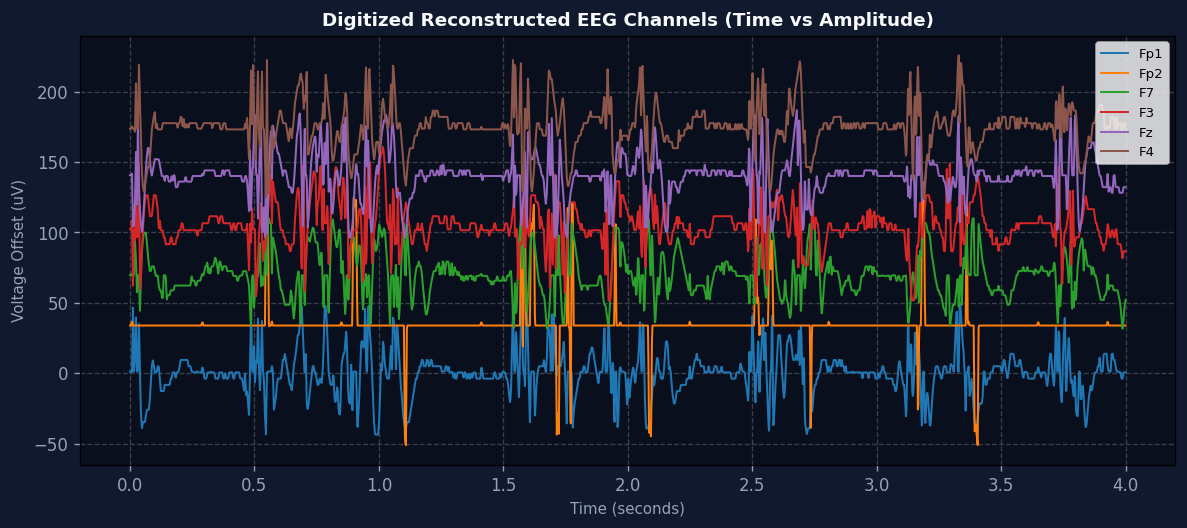
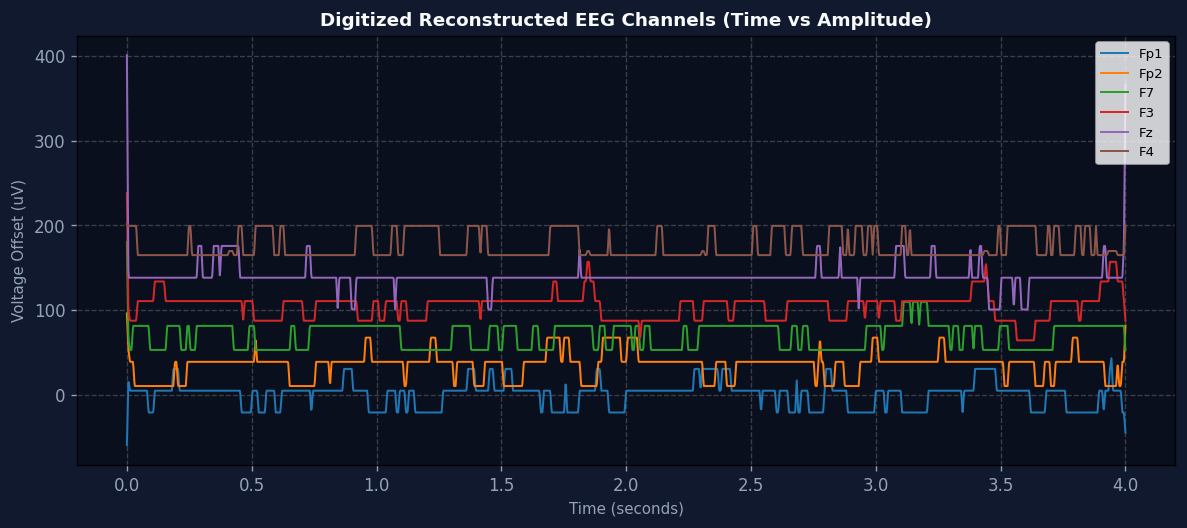
Move Register New Doctor feature into Admin Dashboard with Admin password authorization requirement

diff --git a/templates/admin_authorize_doctor.html b/templates/admin_authorize_doctor.html
@@ -1,0 +1,40 @@
+{% extends "base.html" %}
+
+{% block title %}Admin Security Verification - Register New Doctor{% endblock %}
+
+{% block content %}
+<div style="max-width: 440px; margin: 3rem auto;">
+    <div class="glass-panel" style="padding: 2.25rem; border-top: 4px solid var(--accent-amber);">
+        <div style="text-align: center; margin-bottom: 1.5rem;">
+            <div class="logo-icon" style="margin: 0 auto 1rem auto; width: 52px; height: 52px; font-size: 1.5rem; background: rgba(245, 158, 11, 0.15); color: var(--accent-amber);">
+                <i class="fa-solid fa-key"></i>
+            </div>
+            <h2 style="font-family: 'Outfit', sans-serif; font-size: 1.8rem;">Admin Authorization</h2>
+            <p style="color: var(--text-secondary); font-size: 0.88rem; margin-top: 0.25rem;">Enter Admin Authorization Password to register a new doctor account.</p>
+        </div>
+
+        {% if error %}
+            <div style="background: rgba(244, 63, 94, 0.15); border: 1px solid var(--accent-rose); color: #fb7185; padding: 0.85rem; border-radius: 8px; font-size: 0.88rem; margin-bottom: 1.25rem; text-align: center;">
+                <i class="fa-solid fa-triangle-exclamation"></i> {{ error }}
+            </div>
+        {% endif %}
+
+        <form action="/admin/authorize-doctor" method="POST">
+            <div class="form-group" style="margin-bottom: 1.5rem;">
+                <label class="form-label" for="admin_password">Admin Authorization Password</label>
+                <input type="password" id="admin_password" name="admin_password" class="form-input" placeholder="Enter Admin password (admin@123)" required>
+            </div>
+
+            <button type="submit" class="btn-primary" style="width: 100%; justify-content: center; background: linear-gradient(135deg, #f59e0b, #d97706);">
+                <i class="fa-solid fa-shield-check"></i> Authorize & Continue
+            </button>
+        </form>
+
+        <div style="text-align: center; margin-top: 1.5rem;">
+            <a href="/admin/dashboard" style="color: var(--text-secondary); font-size: 0.88rem; text-decoration: none;">
+                <i class="fa-solid fa-arrow-left"></i> Back to Admin Dashboard
+            </a>
+        </div>
+    </div>
+</div>
+{% endblock %}

diff --git a/templates/admin_dashboard.html b/templates/admin_dashboard.html
@@ -3,14 +3,23 @@
 {% block title %}Admin Dashboard - NeuroCare System{% endblock %}
 
 {% block content %}
-<div style="margin-bottom: 2rem;">
-    <div style="display: flex; align-items: center; gap: 0.75rem; margin-bottom: 0.5rem;">
-        <span style="background: rgba(99, 102, 241, 0.2); color: var(--accent-indigo); padding: 0.25rem 0.75rem; border-radius: 20px; font-size: 0.82rem; font-weight: 700;">
-            SYSTEM ADMINISTRATOR PORTAL
-        </span>
+<div style="display: flex; justify-content: space-between; align-items: flex-start; flex-wrap: wrap; gap: 1rem; margin-bottom: 2rem;">
+    <div>
+        <div style="display: flex; align-items: center; gap: 0.75rem; margin-bottom: 0.5rem;">
+            <span style="background: rgba(99, 102, 241, 0.2); color: var(--accent-indigo); padding: 0.25rem 0.75rem; border-radius: 20px; font-size: 0.82rem; font-weight: 700;">
+                SYSTEM ADMINISTRATOR PORTAL
+            </span>
+        </div>
+        <h1 class="hero-title" style="text-align: left; font-size: 2.2rem;">All Patient Reports & System Analytics</h1>
+        <p style="color: var(--text-secondary);">Monitor patient assessment activity, user registrations, and risk distribution across the system.</p>
     </div>
-    <h1 class="hero-title" style="text-align: left; font-size: 2.2rem;">All Patient Reports & System Analytics</h1>
-    <p style="color: var(--text-secondary);">Monitor patient assessment activity, user registrations, and risk distribution across the system.</p>
+    
+    <!-- Top-Right Action Button: Register New Doctor -->
+    <div>
+        <a href="/admin/authorize-doctor" class="btn-primary" style="background: linear-gradient(135deg, #6366f1, #4f46e5); font-size: 0.9rem; padding: 0.65rem 1.25rem; display: inline-flex; align-items: center; gap: 0.5rem; text-decoration: none; border-radius: 10px; box-shadow: 0 4px 14px rgba(99, 102, 241, 0.35);">
+            <i class="fa-solid fa-user-doctor"></i> Register New Doctor
+        </a>
+    </div>
 </div>
 
 <!-- Admin Summary Metric Cards -->

diff --git a/templates/doctor_login.html b/templates/doctor_login.html
@@ -35,13 +35,6 @@
             </button>
         </form>
 
-        <!-- New Doctor Component -->
-        <div style="text-align: center; margin-top: 1.25rem; font-size: 0.88rem; color: var(--text-secondary);">
-            New Doctor? <a href="/doctor/authorize" style="color: var(--accent-indigo); font-weight: 700; text-decoration: none;">
-                <i class="fa-solid fa-user-plus"></i> Register New Doctor
-            </a>
-        </div>
-
         <div style="margin-top: 1.5rem; background: rgba(10, 15, 29, 0.4); padding: 0.85rem; border-radius: 8px; font-size: 0.82rem; color: var(--text-muted); border: 1px solid var(--border-color); text-align: center;">
             <strong style="color: var(--text-secondary);">Pre-configured Accounts:</strong><br>
             Username: <code>Doctor1</code> | Password: <code>doctor@1</code><br>

diff --git a/app.py b/app.py
@@ -33,7 +33,7 @@ predictor = MultimodalPredictor()
 def index():
     """
     Root route:
-    If unauthenticated -> Render 3-Portal Landing Page (Patient Login, Doctor Login, Admin Login).
+    If unauthenticated -> Render 2-Portal Landing Page (Patient Login, Doctor Login).
     If authenticated -> Render Patient/Doctor Assessment Dashboard.
     """
     if not session.get('user'):
@@ -117,45 +117,8 @@ def doctor_login():
             return render_template('doctor_login.html', error="Invalid username or password.")
     return render_template('doctor_login.html')
 
-@app.route('/doctor/authorize', methods=['GET', 'POST'])
-def doctor_authorize():
-    """Requires Doctor1 authorization password to grant access for New Doctor registration."""
-    if request.method == 'POST':
-        auth_pass = request.form.get('auth_password', '').strip()
-        doc1_user = authenticate_user('Doctor1', auth_pass)
-        if doc1_user and doc1_user.get('role') == 'doctor':
-            session['doctor1_authorized'] = True
-            logger.info("Doctor1 authorization password verified successfully. Access granted to New Doctor registration.")
-            return redirect(url_for('doctor_register'))
-        else:
-            return render_template('doctor_authorize.html', error="Invalid Doctor1 Authorization Password. Authorization failed.")
-    return render_template('doctor_authorize.html')
-
-@app.route('/doctor/register', methods=['GET', 'POST'])
-def doctor_register():
-    """Allows registration of a new doctor if Doctor1 password was verified or Doctor1 is logged in."""
-    is_doc1_logged_in = session.get('user') and session['user'].get('role') == 'doctor' and session['user'].get('username', '').lower() == 'doctor1'
-    is_authorized = session.get('doctor1_authorized', False)
-
-    if not is_doc1_logged_in and not is_authorized:
-        return redirect(url_for('doctor_authorize'))
-
-    if request.method == 'POST':
-        username = request.form.get('username', '').strip()
-        email = request.form.get('email', '').strip()
-        password = request.form.get('password', '').strip()
-
-        success, msg_or_id = register_user(username, email, password, role='doctor')
-        if success:
-            logger.info(f"Registered new Doctor account '{username}'.")
-            return render_template('doctor_register.html', msg=f"New Doctor account '{username}' registered successfully!")
-        else:
-            return render_template('doctor_register.html', error=msg_or_id)
-            
-    return render_template('doctor_register.html')
-
 # ==========================================
-# 3. ADMIN AUTHENTICATION PORTAL
+# 3. ADMIN AUTHENTICATION & DOCTOR REGISTRATION
 # ==========================================
 @app.route('/admin/login', methods=['GET', 'POST'])
 def admin_login():
@@ -191,6 +154,48 @@ def admin_dashboard():
     all_reports = get_all_reports_admin()
     stats = get_admin_stats()
     return render_template('admin_dashboard.html', stats=stats, reports=all_reports)
+
+@app.route('/admin/authorize-doctor', methods=['GET', 'POST'])
+def admin_authorize_doctor():
+    """Requires Admin authorization password to grant access for New Doctor registration."""
+    if not session.get('user') or session['user'].get('role') != 'admin':
+        return render_template('admin_login.html', error="Access denied. Administrator credentials required.")
+
+    if request.method == 'POST':
+        admin_pass = request.form.get('admin_password', '').strip()
+        admin_user = authenticate_user('admin', admin_pass)
+        if admin_user and admin_user.get('role') == 'admin':
+            session['admin_doctor_authorized'] = True
+            logger.info("Admin authorization password verified. Access granted to New Doctor registration.")
+            return redirect(url_for('admin_register_doctor'))
+        else:
+            return render_template('admin_authorize_doctor.html', error="Invalid Admin Authorization Password. Authorization failed.")
+    return render_template('admin_authorize_doctor.html')
+
+@app.route('/admin/register-doctor', methods=['GET', 'POST'])
+@app.route('/doctor/register', methods=['GET', 'POST'])
+def admin_register_doctor():
+    """Allows Admin to register a new doctor after verifying Admin password."""
+    if not session.get('user') or session['user'].get('role') != 'admin':
+        return render_template('admin_login.html', error="Access denied. Administrator credentials required.")
+
+    is_authorized = session.get('admin_doctor_authorized', False)
+    if not is_authorized:
+        return redirect(url_for('admin_authorize_doctor'))
+
+    if request.method == 'POST':
+        username = request.form.get('username', '').strip()
+        email = request.form.get('email', '').strip()
+        password = request.form.get('password', '').strip()
+
+        success, msg_or_id = register_user(username, email, password, role='doctor')
+        if success:
+            logger.info(f"Admin registered new Doctor account '{username}'.")
+            return render_template('doctor_register.html', msg=f"New Doctor account '{username}' registered successfully!")
+        else:
+            return render_template('doctor_register.html', error=msg_or_id)
+            
+    return render_template('doctor_register.html')
 
 @app.route('/logout')
 def logout():
